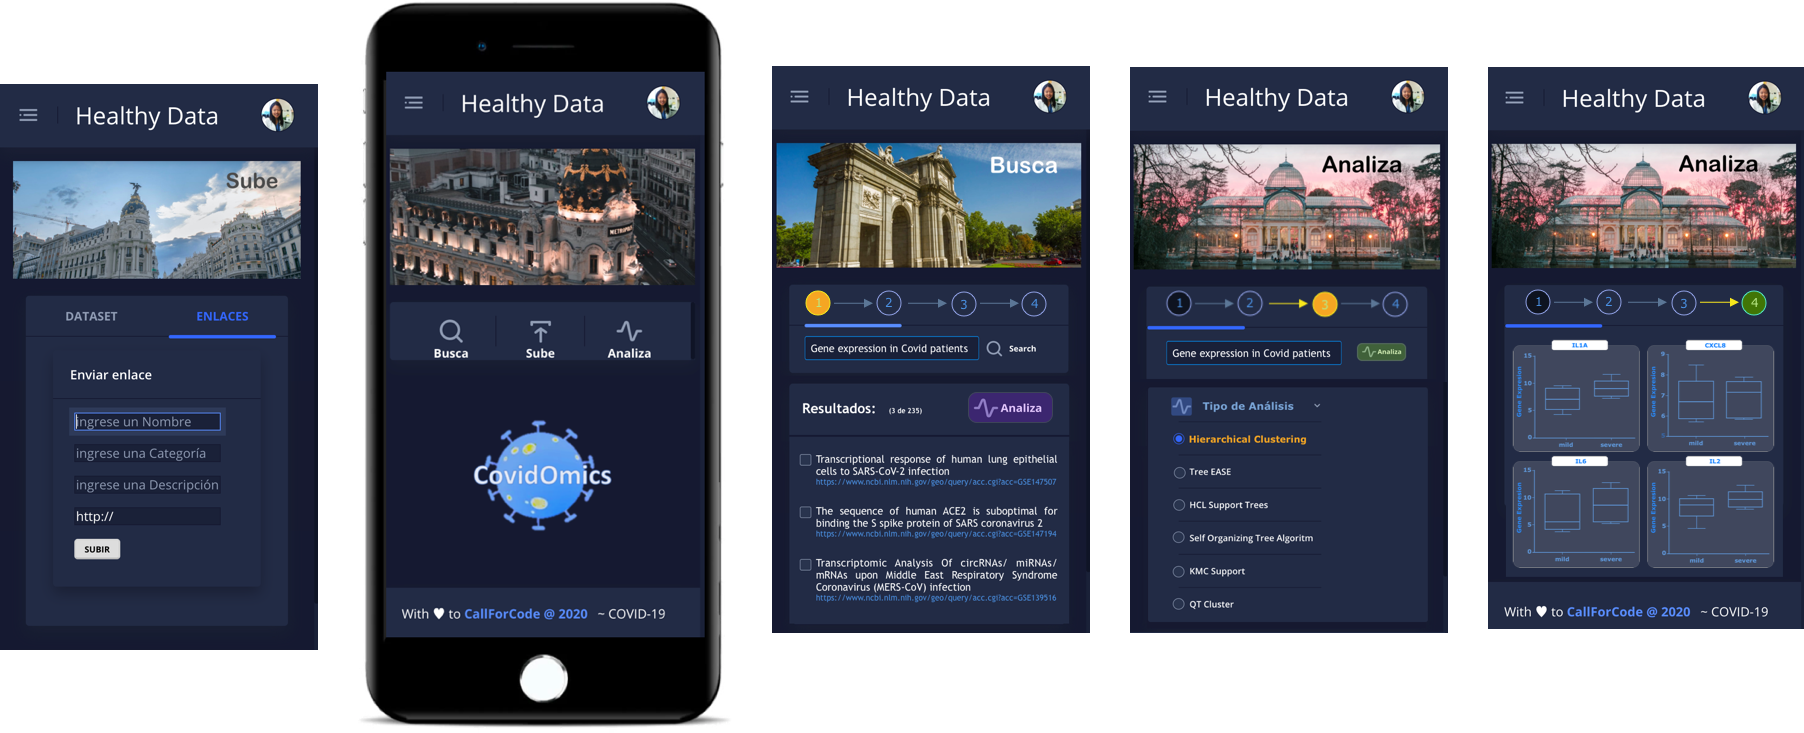
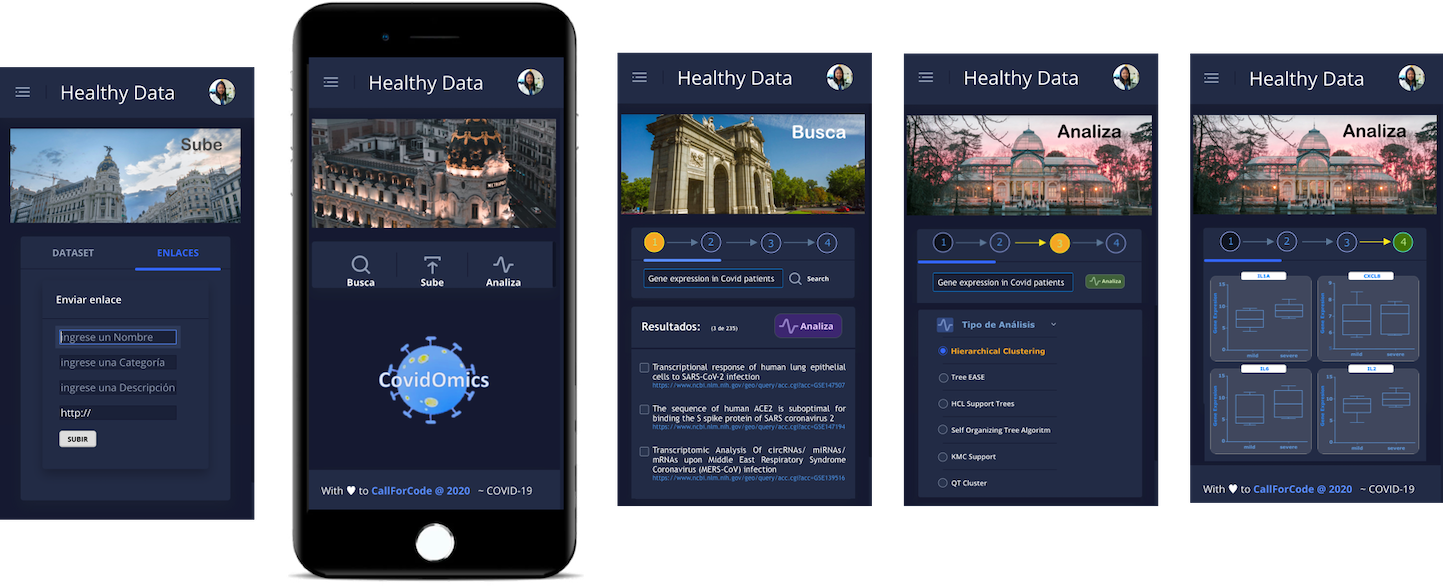
ID-#4 Demo Screen en Invision App

diff --git a/README.md b/README.md
@@ -13,7 +13,7 @@ Organizado por: ONU + IBM
 # Demo Mobile
 
 <a target="_blank" href="https://pabloinchausti135051.invisionapp.com/overview/HealthyData---CallForCode-Hackathon-ck9gp9vv62wz3017ynejn3t7w/screens?v=01PDZCb4rPVMI6PrTo4RTQ%3D%3D&linkshare=urlcopied">
-  <img src="Designs/HealthyData-Demo-mobile-80.png"/>
+  <img src="Designs/HealthyData-Demo-mobile.png"/>
 </a>
 
 # Workflow Específico
